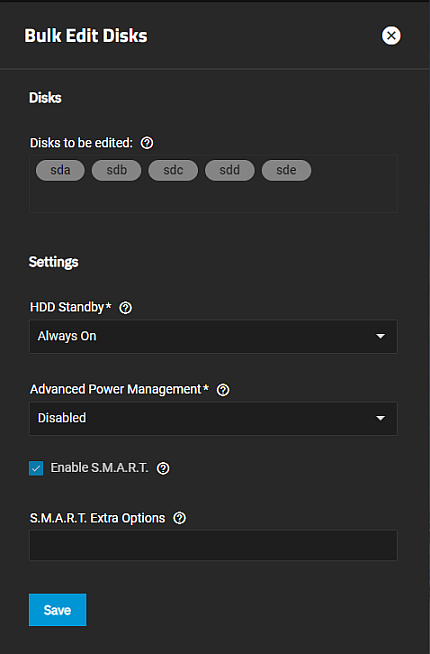
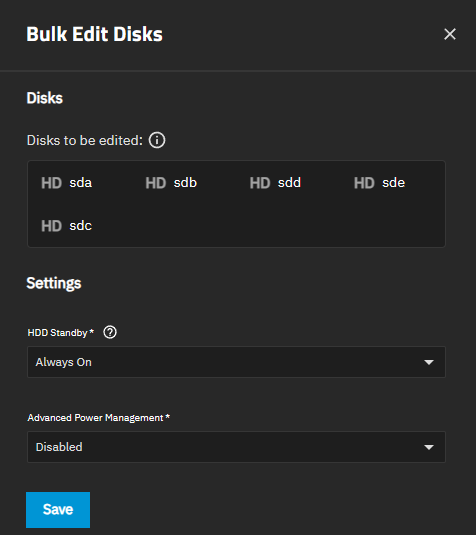
DOCS-2474 / 25.10 / Docs 2474 bulk edit has image that refers to smart 25.10 (#4498)
* Update BulkEditDisksScreen.png

* Update AlertSettingsHardware.png

* Update AlertSettingsHardware.png

* Delete AlertSettingsHardware2.png

* Delete AlertSettingsHardware3.png

* Update AlertsCategories.md

diff --git a/static/includes/AlertsCategories.md b/static/includes/AlertsCategories.md
@@ -50,16 +50,12 @@ You can customize alert settings for when an automatic sync to peer fails, disks
 
 ### Hardware
 
-**Hardware** alert settings apply to the IPMI network connections and S.M.A.R.T. related tests that monitors the hard drives installed on your TrueNAS system.
+**Hardware** alert settings apply to the IPMI network connections and disk health monitoring on your TrueNAS system.
 {{< expand "Click here for more information" >}}
 
-![AlertSettingsHardware](/images/SCALE/SystemSettings/AlertSettingsHardware.png "Hardware Alert Settings 1")
+![AlertSettingsHardware](/images/SCALE/SystemSettings/AlertSettingsHardware.png "Hardware Alert Settings")
 
-![AlertSettingsHardware](/images/SCALE/SystemSettings/AlertSettingsHardware2.png "Hardware Alert Settings 2")
-
-![AlertSettingsHardware](/images/SCALE/SystemSettings/AlertSettingsHardware3.png "Hardware Alert Settings 3")
-
-You can customize alert settings for when disk(s) format with the data integrity feature, IPMI has system events, the IPMI system event log space is low, and S.M.A.R.T. testing found errors with selftesting or uncorrected errors on disk.
+You can customize alert settings for when disk temperature is too hot, disk(s) format with the data integrity feature, a selftest fails, erase cycle count is high, IPMI has system events, the IPMI system event log space is low, JBOF removal requires reboot, spare block reserve is low, and uncorrected errors are detected.
 
 {{< include file="/static/includes/IPMISELAlert.md" >}}
 
